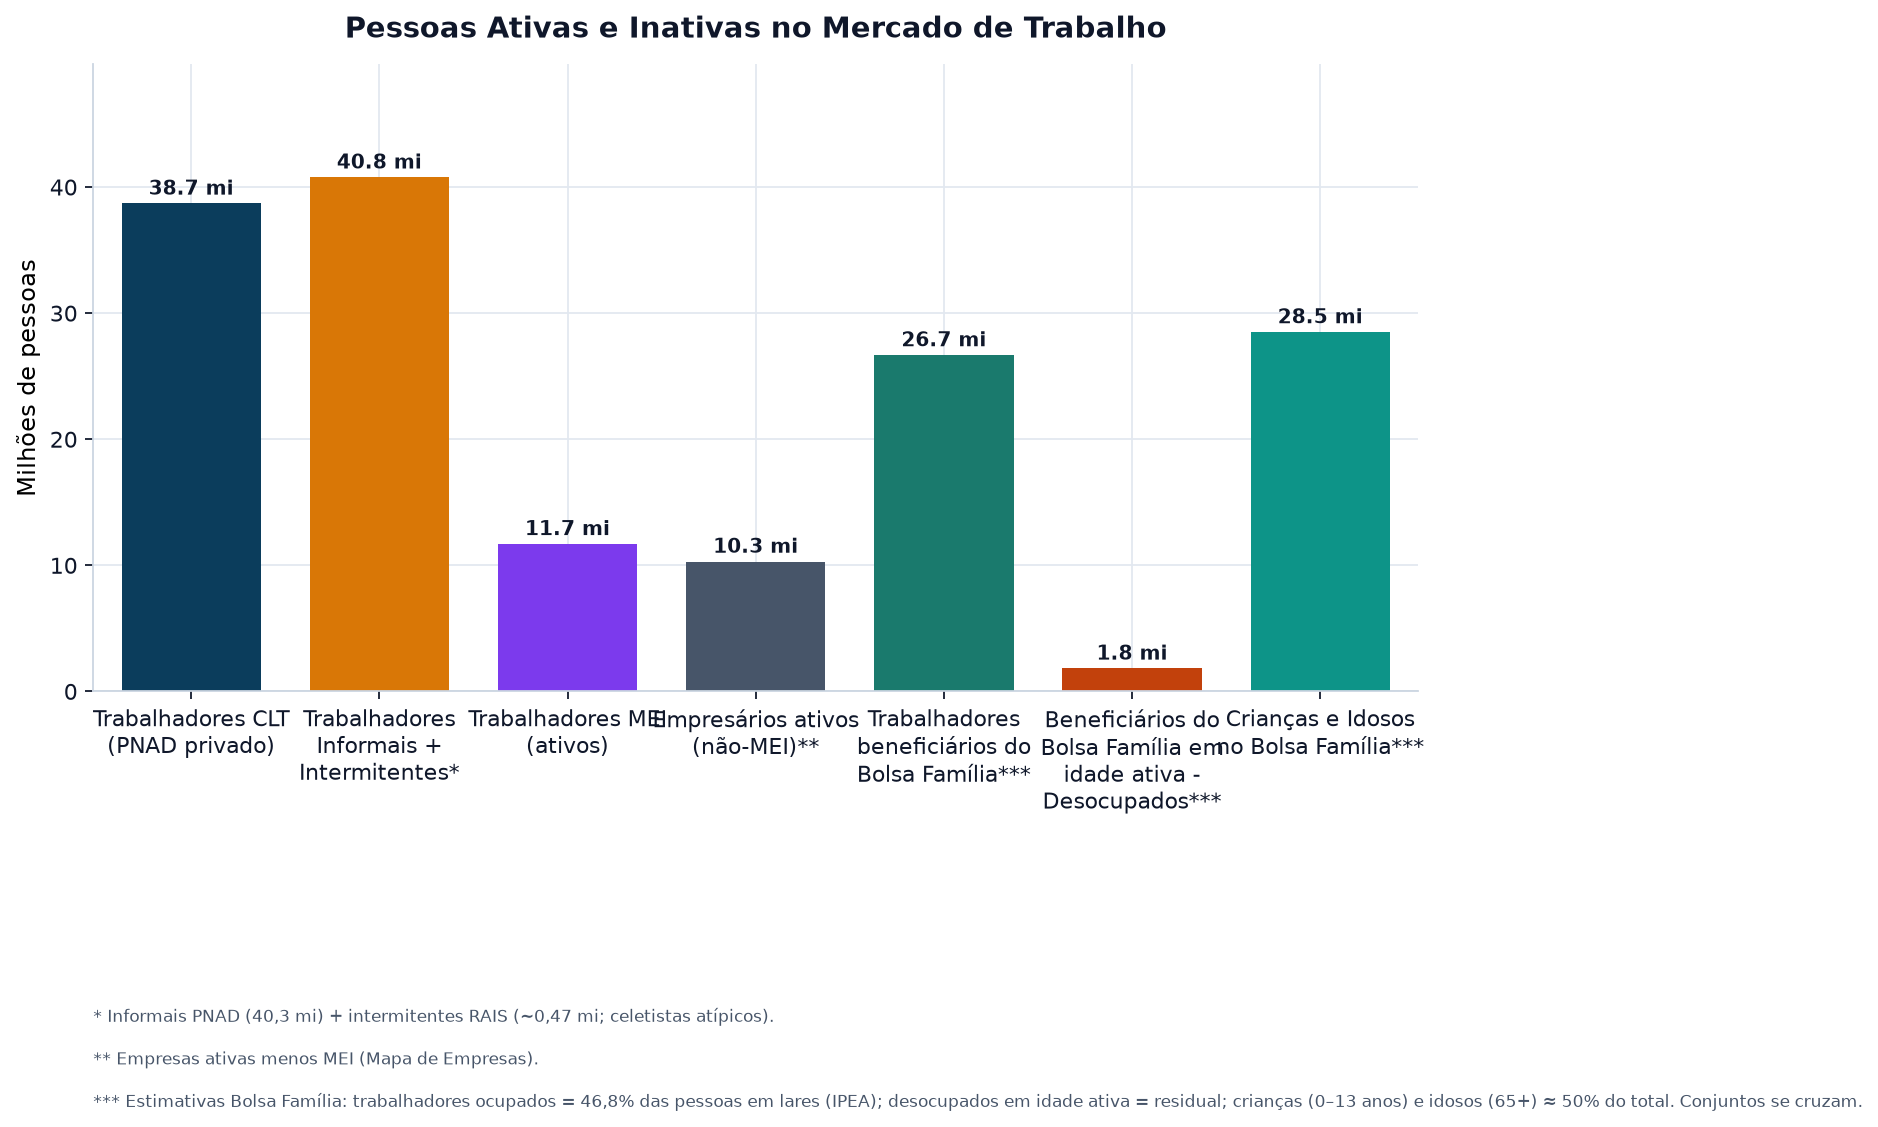
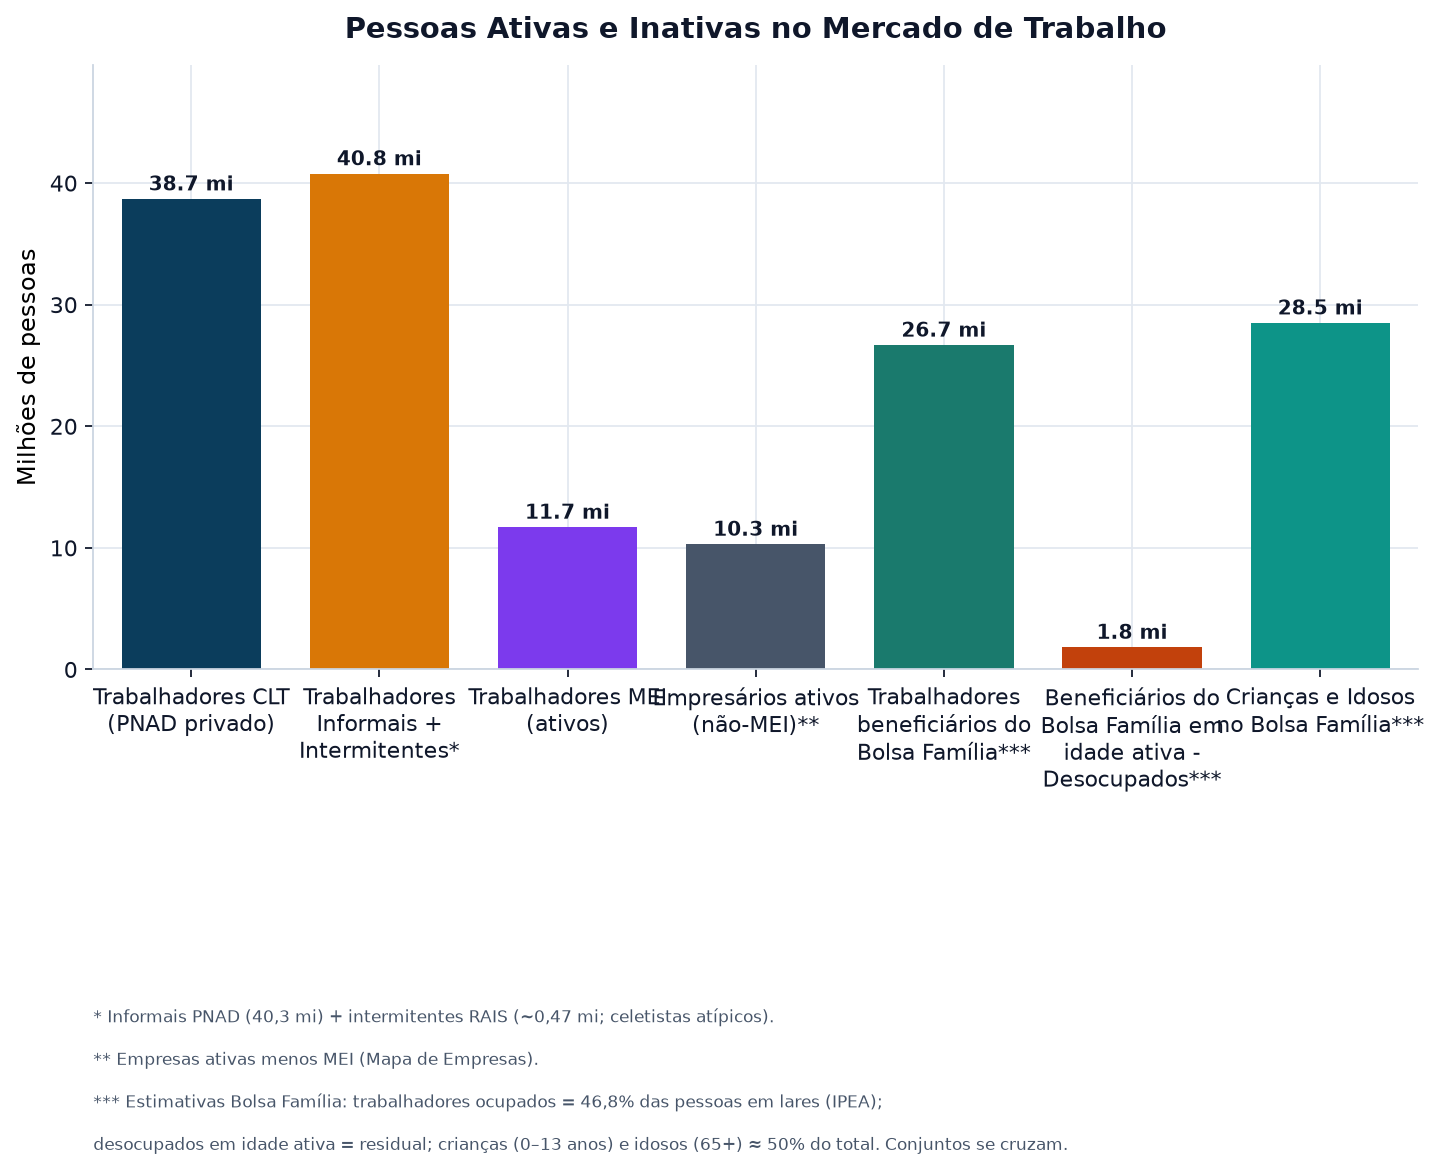
Break chart 07 footnote after IPEA to tighten layout

diff --git a/scripts/generate_charts.py b/scripts/generate_charts.py
@@ -420,13 +420,14 @@ def chart_populacao(m: dict[str, float]) -> None:
             color=TEXT,
         )
     ax.set_ylim(0, max(values) * 1.22)
-    fig.subplots_adjust(left=0.08, right=0.98, bottom=0.34, top=0.90)
+    fig.subplots_adjust(left=0.08, right=0.98, bottom=0.36, top=0.90)
     footnotes = [
         "* Informais PNAD (40,3 mi) + intermitentes RAIS (~0,47 mi; celetistas atípicos).",
         "** Empresas ativas menos MEI (Mapa de Empresas).",
         "*** Estimativas Bolsa Família: trabalhadores ocupados = 46,8% das pessoas em "
-        "lares (IPEA); desocupados em idade ativa = residual; crianças (0–13 anos) e "
-        "idosos (65+) ≈ 50% do total. Conjuntos se cruzam.",
+        "lares (IPEA);",
+        "desocupados em idade ativa = residual; crianças (0–13 anos) e idosos (65+) ≈ "
+        "50% do total. Conjuntos se cruzam.",
     ]
     for idx, line in enumerate(footnotes):
         fig.text(0.08, 0.045 - idx * 0.038, line, fontsize=7.6, color=SLATE, ha="left")
